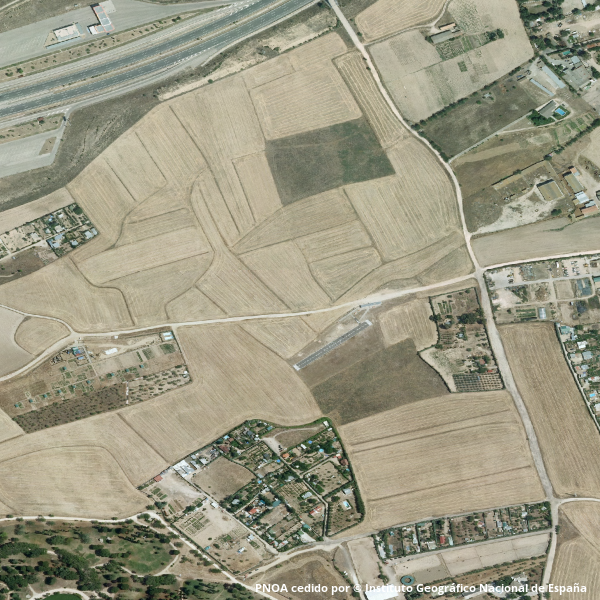
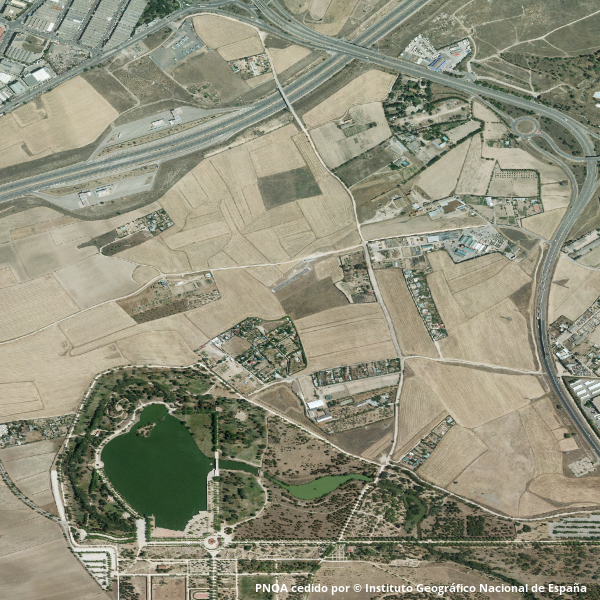
First alfa of  auto zoom

diff --git a/MapClient/GUI/qtTest.py b/MapClient/GUI/qtTest.py
@@ -42,6 +42,9 @@ class MainGUI(QWidget):
         #Set the image Metadata
         self.imageMetadata = imageInput
         self.wayPoints = []
+        self.wayPoints_lat_lon = []
+        self.limit_warning = False
+        self.initial_pose = jderobot.Pose3DData
 
         #Prepare the image to be showed
         image = self.imageMetadata["bytes"]
@@ -173,6 +176,7 @@ class MainGUI(QWidget):
         self.im_to_show = self.im_to_show
         self.refreshImage()
         self.wayPoints = []
+        self.wayPoints_lat_lon = []
         self.table.setRowCount(0)
         self.table.clearContents()
 
@@ -207,7 +211,8 @@ class MainGUI(QWidget):
             lonMin, latMin, lonMax, latMax = self.imageMetadata['bbox']
             sizeX, sizeY = self.imageMetadata['size']
             lat, lon = ImageUtils.posImage2Coords(x, y, sizeX, sizeY, latMin, lonMin, latMax, lonMax)
-            print(x, y, sizeX, sizeY, latMin, lonMin, latMax, lonMax)
+            point_ll = (lat, lon)
+            self.wayPoints_lat_lon.append(point)
             currentRowCount = self.table.rowCount()
             item = QTableWidgetItem()
             alt = QTableWidgetItem()
@@ -366,6 +371,12 @@ class MainGUI(QWidget):
     def getPose3D(self):
         return self.pose
 
+    def get_initial_pose3D(self):
+        return self.initial_pose
+
+    def set_initial_pose3D(self,pose):
+        self.initial_pose = pose
+
     def setPose3D(self, pose):
         self.pose = pose
 
@@ -393,20 +404,8 @@ class MainGUI(QWidget):
         Update the position of the UAV in the map and the attitude and camera image in it's own widgets
         :return:
         '''
-
-        '''
-        if not (self.pose.getPose3D() == None):
-            data = self.pose.getPose3D()
-            img_to_show = ImageUtils.refreshPosition(self.image2show,data.x, data.y)
-            # TODO ver si se puede hacer mejor
-            pixmap = QPixmap()
-            pixmap.loadFromData(img_to_show)
-            self.imageLabel.setPixmap(pixmap)
-        '''
         # HARDCODED
         self.updateImage()
-
-
         self.cameraWidget.imageUpdate.emit()
         self.sensorsWidget.sensorsUpdate.emit()
 
@@ -473,18 +472,39 @@ class MainGUI(QWidget):
         self.refreshImage()
 
 
-    def set_waypoints(self, wayPoints):
+    def set_waypoints(self, wayPoints, current=True):
         n=0
-        pts = np.array(wayPoints, np.int32)
-        pts = pts.reshape((-1, 1, 2))
-        cv2.polylines(self.cvImageShadow, [pts], False, (250, 250, 250), thickness=1)
-        for waypoint in wayPoints:
-            n+=1
-            s = str(n)
-            cv2.circle(self.cvImageShadow, (waypoint[0], waypoint[1]), 1, [0, 0, 255], thickness=-1, lineType=1)
-            cv2.putText(self.cvImageShadow, s, (waypoint[0] + 3, waypoint[1]), cv2.FONT_HERSHEY_COMPLEX_SMALL, 1, [0, 0, 255], thickness=1)
-        self.refreshImage()
+        if current:
+            pts = np.array(wayPoints, np.int32)
+            pts = pts.reshape((-1, 1, 2))
+            cv2.polylines(self.cvImageShadow, [pts], False, (250, 250, 250), thickness=1)
+            for waypoint in wayPoints:
+                n+=1
+                s = str(n)
+                cv2.circle(self.cvImageShadow, (waypoint[0], waypoint[1]), 1, [0, 0, 255], thickness=-1, lineType=1)
+                cv2.putText(self.cvImageShadow, s, (waypoint[0] + 3, waypoint[1]), cv2.FONT_HERSHEY_COMPLEX_SMALL, 1, [0, 0, 255], thickness=1)
+            self.refreshImage()
+        else:
+            bbox = self.imageMetadata["bbox"]
+            print(bbox)
+            imagesize = self.imageMetadata["size"]
+            list_wp = []
+            for i in range(len(wayPoints)):
+                geo_point = wayPoints[i]
+                point = ImageUtils.posCoords2Image(bbox[0], bbox[1], bbox[2], bbox[3],
+                                                   geo_point[0], geo_point[1], imagesize[0], imagesize[1])
 
+                list_wp.append(point)
+            pts = np.array(list_wp, np.int32)
+            pts = pts.reshape((-1, 1, 2))
+            cv2.polylines(self.cvImageShadow, [pts], False, (250, 250, 250), thickness=1)
+            for waypoint in wayPoints:
+                n += 1
+                s = str(n)
+                cv2.circle(self.cvImageShadow, (waypoint[0], waypoint[1]), 1, [0, 0, 255], thickness=-1, lineType=1)
+                cv2.putText(self.cvImageShadow, s, (waypoint[0] + 3, waypoint[1]), cv2.FONT_HERSHEY_COMPLEX_SMALL, 1,
+                            [0, 0, 255], thickness=1)
+            self.refreshImage()
 
     def refreshImage(self):
         height, width, channel = self.cvImage.shape
@@ -547,10 +567,30 @@ class MainGUI(QWidget):
             lat = pose.x
             lon = pose.y
             bbox = self.imageMetadata["bbox"]
-            imagesize = self.imageMetadata["size"]
-            x, y = ImageUtils.posCoords2Image(bbox[0], bbox[1], bbox[2], bbox[3], lat, lon, imagesize[0], imagesize[1])
-            angle = self.sensorsWidget.quatToYaw(pose.q0, pose.q1, pose.q2, pose.q3)
-            self.setPosition(x, y, angle)
+            self.limit_warning = GeoUtils.is_position_close_border(lat, lon , bbox)
+            if self.limit_warning:
+                poseI = self.get_initial_pose3D()
+                latI = poseI.x
+                lonI = poseI.y
+                if self.mapSourceIGN.isChecked():
+                    self.imageMetadata = GeoUtils.retrieve_new_map(latI, lonI, RADIUS *2, WIDTH, HEIGHT)
+                else:
+                    self.imageMetadata = GeoUtils.retrieve_new_google_map(latI, lonI, ZOOM -1, WIDTH, HEIGHT)
+                # Prepare the image to be showed
+                image = self.imageMetadata["bytes"]
+                cvRGBImg = cv2.cvtColor(image, cv2.COLOR_RGB2BGR)
+                self.cvImage = cvRGBImg.copy()
+                self.cvImageShadow = cvRGBImg.copy()
+                self.im_to_show = cvRGBImg.copy()
+                self.set_waypoints(self.wayPoints_lat_lon, current=False)
+                self.refreshImage()
+
+            else:
+                bbox = self.imageMetadata["bbox"]
+                imagesize = self.imageMetadata["size"]
+                x, y = ImageUtils.posCoords2Image(bbox[0], bbox[1], bbox[2], bbox[3], lat, lon, imagesize[0], imagesize[1])
+                angle = self.sensorsWidget.quatToYaw(pose.q0, pose.q1, pose.q2, pose.q3)
+                self.setPosition(x, y, angle)
 
 
 

diff --git a/MapClient/tools/GeoUtils.py b/MapClient/tools/GeoUtils.py
@@ -20,8 +20,8 @@ MIN_LON = radians(-180)
 MAX_LON = radians(180)
 H = 0.5
 MERCATOR_RANGE = 256.0
-EARTH_RADIUS_WGS84 = 6371  # kilometers based on the ellipsoid of the standard WGS84 used in the IGN EPSG:4326
-
+EARTH_RADIUS_WGS84 = 6371.0  # kilometers based on the ellipsoid of the standard WGS84 used in the IGN EPSG:4326
+DEAD_BAND = 10 # 10 percent
 
 
 def getBoundingBox(lat, lon, distance):
@@ -166,6 +166,16 @@ def retrieve_new_google_map(lat, lon, zoomInt, width, heigth):
     return image
 
 
+def is_position_close_border(lat, lon , bbox):
+    dif_lat = bbox[3] - bbox[1]
+    dif_lon = bbox[2] - bbox[0]
+    dead_lat = 10 * dif_lat / 100.0
+    dead_lon = 10 * dif_lon / 100.0
+    if(((lat < (bbox[1] + dead_lat)) or (lat > (bbox[3] - dead_lat))) or
+               ((lon < (bbox[0] + dead_lon)) or (lon > (bbox[2] - dead_lon)))):
+                return True
+    else:
+        return False
 
 def bound(value, opt_min, opt_max):
     if (opt_min != None):

diff --git a/MapClient/__init__.py b/MapClient/__init__.py
@@ -76,6 +76,7 @@ if __name__ == '__main__':
     screen.setFirstLocation(image)
     screen.setCamera(camera)
     screen.setPose3D(pose)
+    screen.set_initial_pose3D(pose3D)
     screen.setNavData(navdata)
     screen.setCMDVel(cmdvel) # Not used yet
     screen.setExtra(extra)

diff --git a/MapClient/tools/ImageUtils.py b/MapClient/tools/ImageUtils.py
@@ -89,6 +89,6 @@ def posCoords2Image(lonMin, latMin, lonMax, latMax, lat, lon, tamImageX, tamImag
 
     x = ((latMax-lat) *(tamImageX))/distCoordX
     y = ((lon-lonMin) *(tamImageY))/distCoordY
-
+    print (x,y)
     return round(y), round(x)
 
